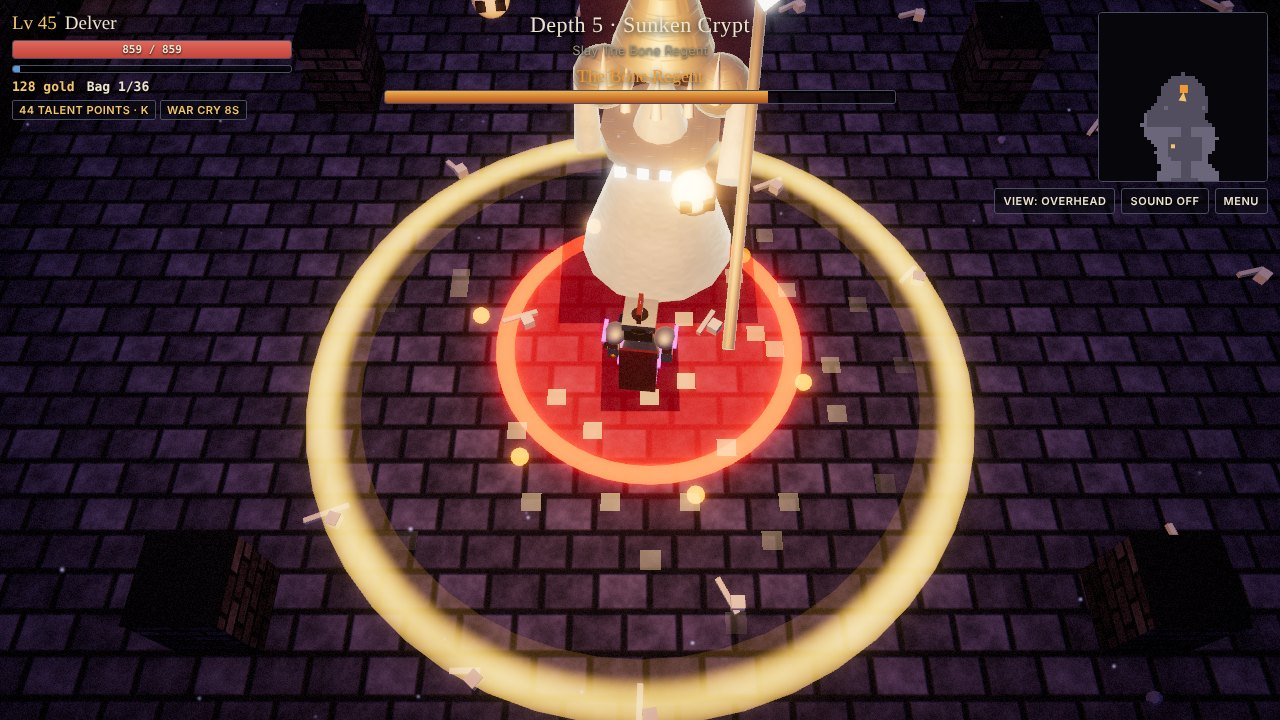
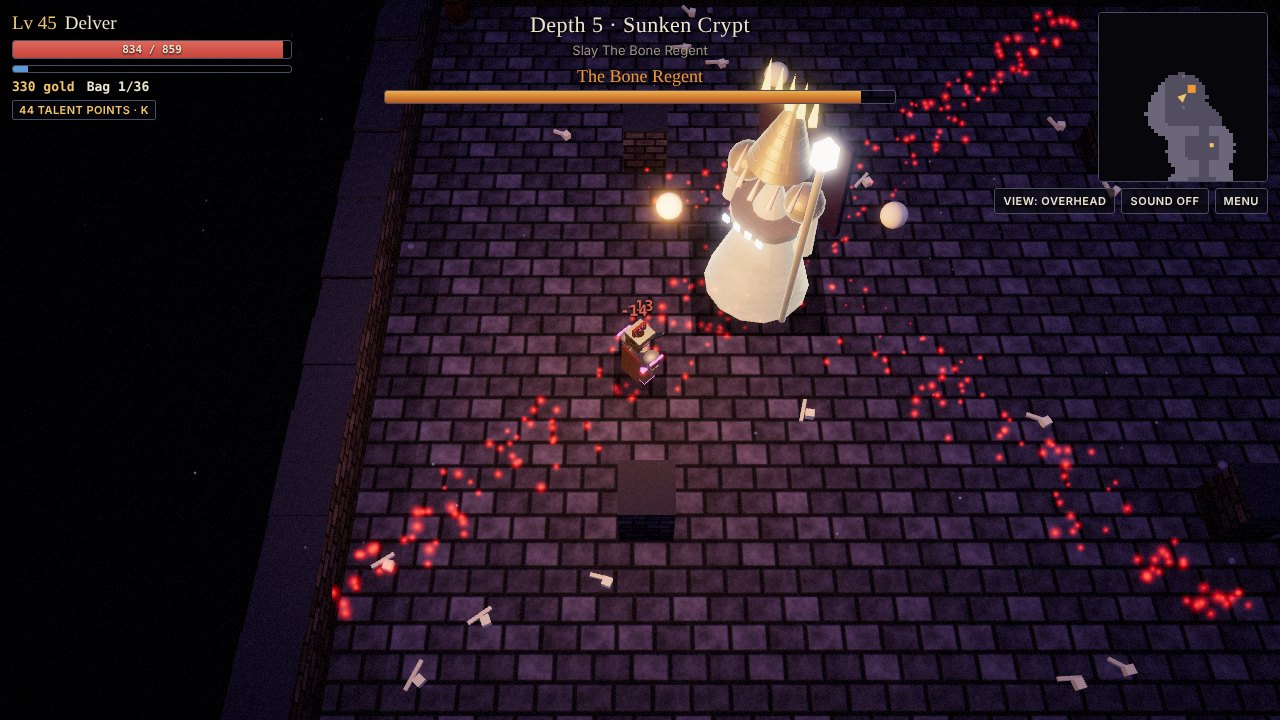
Readable dungeons from above, and a challenge link the moment a rift is sealed
Look
- Wall tops take 30% of the biome's stone colour instead of near-black,
  so rooms and corridors read as shapes against the unlit void.
- Overhead view: lantern a little stronger and wider, ambient up.

Sharing
- Every rift now has a seed and a code of its own, so any run can be
  shared afterwards (coded rifts still do not unlock tiers).
- Sealing a rift offers "Copy challenge link" with your time; the Delve
  keeps "Your last rift" with the same button. On phones the link goes
  through the share sheet.
- Side effect, and a fix: ordinary rifts had seed 0 and so always met the
  first Rift Guardian; they now draw from all five.

Tests and press
- Smoke test seals a rift and checks the offer and the saved code.
- Dungeon screenshots retaken at the default zoom with the new look.

Claude-Session: https://claude.ai/code/session_01WcBCuPCvAaaUKvDdgTgcLD

diff --git a/dist/hearthdeep.html b/dist/hearthdeep.html
@@ -75,6 +75,7 @@ button:focus-visible{outline:2px solid var(--brass-2);outline-offset:2px}
 #toasts{position:absolute;right:calc(12px + env(safe-area-inset-right,0px));top:calc(222px + env(safe-area-inset-top,0px));display:grid;gap:4px;justify-items:end;width:min(320px,60vw)}
 .toast{padding:5px 10px;background:var(--shade);border-left:3px solid var(--brass);font-size:14px;animation:tin .25s ease-out;max-width:100%}
 .toast.big{font-family:var(--f-display);font-size:18px}
+.toast.dare{display:grid;gap:6px;justify-items:end;pointer-events:auto;padding:8px 10px}
 @keyframes tin{from{transform:translateX(16px);opacity:0}to{transform:none;opacity:1}}
 #banner{position:absolute;top:28%;left:50%;transform:translateX(-50%);text-align:center;font-family:var(--f-display);font-size:clamp(28px,6vw,52px);color:var(--brass-2);text-shadow:0 3px 14px #000;opacity:0;transition:opacity .4s;width:90%;text-wrap:balance}
 #banner small{display:block;font-family:var(--f-body);font-size:15px;color:var(--fg);letter-spacing:.12em;text-transform:uppercase;margin-top:6px}
@@ -2311,6 +2312,7 @@ function buildDungeonVisuals() {
   makeEnv(tint(B.amb, 0.6), tint(B.fog, 2.5), 0x050508, B.torch);
   scene.environmentIntensity = 0.5;
 }
+const _capTint = new THREE.Color();
 function wallHeight() { return SET.cam === 'top' ? 1.35 : 3.4; }
 function layoutWalls() {
   const L = LV; if (!L || L.type !== 'dungeon') return;
@@ -2322,6 +2324,8 @@ function layoutWalls() {
     walls.push({ x: t.i + 0.5, y: h / 2, z: t.j + 0.5, sx: 1, sy: h, sz: 1, c: grey(t.v) });
     caps.push({ x: t.i + 0.5, y: h + 0.02, z: t.j + 0.5, sx: 1.02, sy: 0.04, sz: 1.02 });
   }
+  // wall tops take a little of the biome's stone colour, so the mass of the walls reads apart from the unlit void beyond
+  W.cap.color.setHex(0x15151c).lerp(_capTint.setHex(B.wall), 0.3);
   const objs = [];
   objs.push(instanced(G.box, W.wall, walls, { keep: true, cast: true }));
   objs.push(instanced(G.box, W.cap, caps, { keep: true, receive: false }));
@@ -4534,9 +4538,9 @@ function updCamera(dt) {
 function lightForView() {
   if (!LV || LV.type !== 'dungeon') return;
   const top = SET.cam === 'top';
-  torch.intensity = top ? 85 : 30; torch.distance = top ? 32 : 22;
+  torch.intensity = top ? 96 : 30; torch.distance = top ? 34 : 22;
   if (riftMod('dark')) { torch.distance *= 0.55; torch.intensity *= 0.75; }
-  hemi.intensity = top ? 3.0 : 2.4;
+  hemi.intensity = top ? 3.7 : 2.4;
   // overhead, the lantern is high and its shadows barely show, while its six-sided shadow pass is the costliest
   // thing in the frame; contact shadows carry the overhead look instead. Toggling it rebuilds shaders, so warm them.
   const cast = Q.torchShadow && !top;
@@ -4780,6 +4784,7 @@ function normalizeSave(s) {
   if (typeof s.shards !== 'number') s.shards = 0;
   if (!s.story || typeof s.story !== 'object' || !Array.isArray(s.story.pages)) s.story = null;
   if (!s.seedBest || typeof s.seedBest !== 'object') s.seedBest = {};
+  if (s.lastRift && (typeof s.lastRift !== 'object' || typeof s.lastRift.code !== 'string' || !isFinite(s.lastRift.secs))) delete s.lastRift;
   if (!s.rift || typeof s.rift !== 'object') s.rift = { max: 1, best: {} };
   // repair anything a bad write or an old version could have left behind
   for (const k of ['gold', 'xp', 'kills', 'deaths', 'runs', 'best', 'bossKills', 'potions', 'gpotions', 'scrolls', 'shards', 'time']) if (!Number.isFinite(s[k]) || s[k] < 0) s[k] = d[k] || 0;
@@ -5872,8 +5877,8 @@ function startRift(t, weekly, coded) {
   let mods, seed = 0;
   if (coded) { t = coded.tier; mods = coded.mods; seed = coded.seed; }
   else if (weekly) { const W = weeklyDef(); t = W.tier; mods = W.mods; seed = W.seed; }
-  else { const n = t >= 10 ? 3 : t >= 4 ? 2 : 1, keys = Object.keys(RIFT_MODS); mods = []; while (mods.length < n) { const m = pick(keys); if (!mods.includes(m)) mods.push(m); } }
-  startDelve(riftDepth(t), [], { mode: 'rift', rift: { tier: t, mods, floor: 1, t0: performance.now(), par: riftPar(t), weekly: !!weekly, seed, code: coded ? coded.code : null } });
+  else { const n = t >= 10 ? 3 : t >= 4 ? 2 : 1, keys = Object.keys(RIFT_MODS); mods = []; while (mods.length < n) { const m = pick(keys); if (!mods.includes(m)) mods.push(m); } seed = (Math.floor(Math.random() * 0xfffffffe) + 1) >>> 0; } // a seed of its own, so any rift can be shared afterwards
+  startDelve(riftDepth(t), [], { mode: 'rift', rift: { tier: t, mods, floor: 1, t0: performance.now(), par: riftPar(t), weekly: !!weekly, seed, code: coded ? coded.code : null, share: coded ? coded.code : riftCode(t, mods, seed) } });
   hint('rift'); ghostRecStart(); if (weekly) autoGhost();
   banner(weekly ? 'Weekly Rift' : coded ? 'Seeded rift' : `Rift tier ${t}`, mods.map((m) => RIFT_MODS[m].n).join(' · '));
 }
@@ -5909,6 +5914,7 @@ function riftComplete(e) {
   if (!S.rift.best[t] || secs < S.rift.best[t]) S.rift.best[t] = secs;
   if (R.code) { S.seedBest = S.seedBest || {}; if (!S.seedBest[R.code] || secs < S.seedBest[R.code]) S.seedBest[R.code] = secs; }
   if (R.weekly) { const k = weeklyDef().key; if (!S.weekly || S.weekly.key !== k) S.weekly = { key: k, best: null, tries: 0 }; if (!S.weekly.best || secs < S.weekly.best) S.weekly.best = secs; submitBoard({ time: secs, ghost: ghostString(R) }); }
+  if (R.share) { S.lastRift = { code: R.share, secs, tier: t }; dareToast(R.share, secs); }
   partyDone(secs);
   stat('rifts');
   gainXP(80 * t + 40);
@@ -6041,6 +6047,8 @@ function riftHtml() {
       <button class="btn" type="button" data-act="weekly">Enter</button></div>
     <div class="row"><div><div class="t">Daily seed<small>today's floors, the same for anyone with the code</small></div>${(() => { const c = dailyCode(), p = parseRiftCode(c), b = S.seedBest && S.seedBest[c]; return `<div class="d"><code>${c}</code> · tier ${p.tier} · ${p.mods.map((m) => RIFT_MODS[m].n).join(', ')}${b ? ` · <span style="color:var(--ok)">your best ${fmtClock(b)}</span>` : ''}</div><div class="acts"><button class="btn ghost sm" type="button" data-act="copyCode" data-code="${c}">${canLink() ? 'Copy challenge link' : 'Copy code'}</button></div>`; })()}</div>
       <button class="btn" type="button" data-act="daily">Enter</button></div>
+${S.lastRift && parseRiftCode(S.lastRift.code) ? `<div class="row"><div><div class="t">Your last rift<small>dare a friend to beat your time on the same floors</small></div><div class="d"><code>${esc(S.lastRift.code)}</code> · tier ${S.lastRift.tier} · sealed in ${fmtClock(S.lastRift.secs)}</div></div>
+      <button class="btn ghost" type="button" data-act="copyCode" data-code="${esc(S.lastRift.code)}" data-secs="${Math.round(S.lastRift.secs)}">${canLink() ? 'Copy challenge link' : 'Copy code'}</button></div>` : ''}
     <div class="row"><div><div class="t">Play a code<small>a friend's rift, floor for floor</small></div><input id="seedIn" class="code-in" type="text" placeholder="HD-4-SB-1A2B3C" value="${pendingRift ? pendingRift.code : ''}" autocomplete="off" spellcheck="false"><div class="hint" id="seedMsg"></div></div>
       <button class="btn ghost" type="button" data-act="seedGo">Play</button></div>
     </div>`;
@@ -6632,7 +6640,7 @@ function doAct(d) {
     case 'pit': startArena(); return;
     case 'daily': { const c = parseRiftCode(dailyCode()); if (c) startRift(0, false, c); return; }
     case 'seedGo': { const inp = $('#seedIn'), c = findRiftCode(inp && inp.value); if (!c) { const m = $('#seedMsg'); if (m) m.textContent = 'That is not a rift code. Codes look like HD-4-SB-1A2B3C.'; return; } pendingRift = null; startRift(0, false, c); return; }
-    case 'copyCode': { const link = canLink(), t = link ? `Race me in Hearthdeep, same floors, same foes: ${riftLink(d.code)}` : d.code; try { navigator.clipboard.writeText(t).then(() => toast(link ? 'Challenge link copied. Send it to a friend.' : 'Code copied: ' + t, 'var(--ok)'), () => toast(t, 'var(--muted)', true)); } catch (err) { toast(t, 'var(--muted)', true); } return; }
+    case 'copyCode': { copyChallenge(d.code, +d.secs || 0); return; }
     case 'cvBuy': caravanBuy(+d.i); break;
     case 'cvLook': Panel.cvLook = +d.i; break;
     default: if (settingsAct(d) || onlineAct(d)) break; if (metaAct(d, it) === 'stop') return;
@@ -7143,6 +7151,21 @@ try { pendingRift = findRiftCode(new URLSearchParams(location.search).get('rift'
 function announcePendingRift() {
   if (!pendingRift) return;
   toast(`A friend's rift is waiting: ${pendingRift.code} (tier ${pendingRift.tier}). Walk to the Delve and choose Rift Trials to race it.`, 'var(--brass)', true);
+}
+function copyChallenge(code, secs) {
+  const link = canLink(), say = secs ? `I sealed this Hearthdeep rift in ${fmtClock(secs)}. Same floors, same foes. Beat it:` : 'Race me in Hearthdeep, same floors, same foes:';
+  const t = link ? `${say} ${riftLink(code)}` : code;
+  // on a phone the share sheet is the natural way to send a link; everywhere else it goes to the clipboard
+  if (link && navigator.share && window.matchMedia('(pointer: coarse)').matches) { navigator.share({ title: 'Hearthdeep', text: say, url: riftLink(code) }).catch(() => {}); return; }
+  try { navigator.clipboard.writeText(t).then(() => toast(link ? 'Challenge link copied. Send it to a friend.' : 'Code copied: ' + t, 'var(--ok)'), () => toast(t, 'var(--muted)', true)); } catch (err) { toast(t, 'var(--muted)', true); }
+}
+// the moment a rift is sealed is when a time is worth showing off: offer the link there, and keep it in the Delve for later
+function dareToast(code, secs) {
+  const box = $('#toasts'), el = document.createElement('div'); el.className = 'toast big dare';
+  const s = document.createElement('span'); s.textContent = `Sealed in ${fmtClock(secs)}. Dare a friend to beat it.`;
+  const b = document.createElement('button'); b.type = 'button'; b.className = 'btn sm'; b.textContent = canLink() ? (navigator.share && window.matchMedia('(pointer: coarse)').matches ? 'Send challenge' : 'Copy challenge link') : 'Copy code';
+  b.addEventListener('click', () => { copyChallenge(code, secs); el.remove(); });
+  el.append(s, b); box.prepend(el); setTimeout(() => el.remove(), 14000);
 }
 function dailyCode() {
   const d = new Date(), key = `${d.getUTCFullYear()}-${d.getUTCMonth() + 1}-${d.getUTCDate()}`;
@@ -7877,7 +7900,7 @@ function boot(data) {
 }
 if (window.claude && window.claude.hot && window.claude.hot.snapshot) window.claude.hot.snapshot(() => ({ S, started }));
 if (window.claude && window.claude.hot && window.claude.hot.ready) window.claude.hot.ready(boot); else boot((window.claude && window.claude.hot && window.claude.hot.data) || {});
-return { get S() { return S; }, get RUN() { return RUN; }, get P() { return P; }, get LV() { return LV; }, enemies, renderer, startDelve, begin, freshHero, openPanel, closePanel, loadDungeon, get ready() { return levelReady; }, perf, debug: { parseRiftCode, setTouchMode, returnToTown, afterGear, DBG, stick, interacts, interact, usePotion, get skillCd() { return skillCd; }, isPaused, snapCamera, nextFloor, loadTown, rollCaravan, startRift, startArena, die, gainXP, hurtPlayer, calcStats, xpNeed, ARCH, BIOMES, genItem, makeSetItem, scene, sun, hemi, sky, walkable, spawnEnemy, bossPattern, get LVL() { return LV; }, applyTimeOfDay, get pet() { return pet; }, villagers, zones, chooseClass, checkAch, playerAttack, CAM, setCamMode, useSkill, cycleLock, get lockT() { return lockT; }, corpses, skillCd, questEvent, makeQuestOffers, claimQuest, get trail() { return trail; }, spawnDrop, bossIntro, LEGENDS, applyLoadout, ascend, gainParagon, GUARDIANS, season, minions, remains, initOnline, ONLINE, submitBoard, get drops() { return drops; } } };
+return { get S() { return S; }, get RUN() { return RUN; }, get P() { return P; }, get LV() { return LV; }, enemies, renderer, startDelve, begin, freshHero, openPanel, closePanel, loadDungeon, get ready() { return levelReady; }, perf, debug: { damageEnemy, parseRiftCode, setTouchMode, returnToTown, afterGear, DBG, stick, interacts, interact, usePotion, get skillCd() { return skillCd; }, isPaused, snapCamera, nextFloor, loadTown, rollCaravan, startRift, startArena, die, gainXP, hurtPlayer, calcStats, xpNeed, ARCH, BIOMES, genItem, makeSetItem, scene, sun, hemi, sky, walkable, spawnEnemy, bossPattern, get LVL() { return LV; }, applyTimeOfDay, get pet() { return pet; }, villagers, zones, chooseClass, checkAch, playerAttack, CAM, setCamMode, useSkill, cycleLock, get lockT() { return lockT; }, corpses, skillCd, questEvent, makeQuestOffers, claimQuest, get trail() { return trail; }, spawnDrop, bossIntro, LEGENDS, applyLoadout, ascend, gainParagon, GUARDIANS, season, minions, remains, initOnline, ONLINE, submitBoard, get drops() { return drops; } } };
 };
 </script>
 <script type="module">

diff --git a/game.js b/game.js
@@ -1752,6 +1752,7 @@ function buildDungeonVisuals() {
   makeEnv(tint(B.amb, 0.6), tint(B.fog, 2.5), 0x050508, B.torch);
   scene.environmentIntensity = 0.5;
 }
+const _capTint = new THREE.Color();
 function wallHeight() { return SET.cam === 'top' ? 1.35 : 3.4; }
 function layoutWalls() {
   const L = LV; if (!L || L.type !== 'dungeon') return;
@@ -1763,6 +1764,8 @@ function layoutWalls() {
     walls.push({ x: t.i + 0.5, y: h / 2, z: t.j + 0.5, sx: 1, sy: h, sz: 1, c: grey(t.v) });
     caps.push({ x: t.i + 0.5, y: h + 0.02, z: t.j + 0.5, sx: 1.02, sy: 0.04, sz: 1.02 });
   }
+  // wall tops take a little of the biome's stone colour, so the mass of the walls reads apart from the unlit void beyond
+  W.cap.color.setHex(0x15151c).lerp(_capTint.setHex(B.wall), 0.3);
   const objs = [];
   objs.push(instanced(G.box, W.wall, walls, { keep: true, cast: true }));
   objs.push(instanced(G.box, W.cap, caps, { keep: true, receive: false }));
@@ -3975,9 +3978,9 @@ function updCamera(dt) {
 function lightForView() {
   if (!LV || LV.type !== 'dungeon') return;
   const top = SET.cam === 'top';
-  torch.intensity = top ? 85 : 30; torch.distance = top ? 32 : 22;
+  torch.intensity = top ? 96 : 30; torch.distance = top ? 34 : 22;
   if (riftMod('dark')) { torch.distance *= 0.55; torch.intensity *= 0.75; }
-  hemi.intensity = top ? 3.0 : 2.4;
+  hemi.intensity = top ? 3.7 : 2.4;
   // overhead, the lantern is high and its shadows barely show, while its six-sided shadow pass is the costliest
   // thing in the frame; contact shadows carry the overhead look instead. Toggling it rebuilds shaders, so warm them.
   const cast = Q.torchShadow && !top;
@@ -4221,6 +4224,7 @@ function normalizeSave(s) {
   if (typeof s.shards !== 'number') s.shards = 0;
   if (!s.story || typeof s.story !== 'object' || !Array.isArray(s.story.pages)) s.story = null;
   if (!s.seedBest || typeof s.seedBest !== 'object') s.seedBest = {};
+  if (s.lastRift && (typeof s.lastRift !== 'object' || typeof s.lastRift.code !== 'string' || !isFinite(s.lastRift.secs))) delete s.lastRift;
   if (!s.rift || typeof s.rift !== 'object') s.rift = { max: 1, best: {} };
   // repair anything a bad write or an old version could have left behind
   for (const k of ['gold', 'xp', 'kills', 'deaths', 'runs', 'best', 'bossKills', 'potions', 'gpotions', 'scrolls', 'shards', 'time']) if (!Number.isFinite(s[k]) || s[k] < 0) s[k] = d[k] || 0;
@@ -5313,8 +5317,8 @@ function startRift(t, weekly, coded) {
   let mods, seed = 0;
   if (coded) { t = coded.tier; mods = coded.mods; seed = coded.seed; }
   else if (weekly) { const W = weeklyDef(); t = W.tier; mods = W.mods; seed = W.seed; }
-  else { const n = t >= 10 ? 3 : t >= 4 ? 2 : 1, keys = Object.keys(RIFT_MODS); mods = []; while (mods.length < n) { const m = pick(keys); if (!mods.includes(m)) mods.push(m); } }
-  startDelve(riftDepth(t), [], { mode: 'rift', rift: { tier: t, mods, floor: 1, t0: performance.now(), par: riftPar(t), weekly: !!weekly, seed, code: coded ? coded.code : null } });
+  else { const n = t >= 10 ? 3 : t >= 4 ? 2 : 1, keys = Object.keys(RIFT_MODS); mods = []; while (mods.length < n) { const m = pick(keys); if (!mods.includes(m)) mods.push(m); } seed = (Math.floor(Math.random() * 0xfffffffe) + 1) >>> 0; } // a seed of its own, so any rift can be shared afterwards
+  startDelve(riftDepth(t), [], { mode: 'rift', rift: { tier: t, mods, floor: 1, t0: performance.now(), par: riftPar(t), weekly: !!weekly, seed, code: coded ? coded.code : null, share: coded ? coded.code : riftCode(t, mods, seed) } });
   hint('rift'); ghostRecStart(); if (weekly) autoGhost();
   banner(weekly ? 'Weekly Rift' : coded ? 'Seeded rift' : `Rift tier ${t}`, mods.map((m) => RIFT_MODS[m].n).join(' · '));
 }
@@ -5350,6 +5354,7 @@ function riftComplete(e) {
   if (!S.rift.best[t] || secs < S.rift.best[t]) S.rift.best[t] = secs;
   if (R.code) { S.seedBest = S.seedBest || {}; if (!S.seedBest[R.code] || secs < S.seedBest[R.code]) S.seedBest[R.code] = secs; }
   if (R.weekly) { const k = weeklyDef().key; if (!S.weekly || S.weekly.key !== k) S.weekly = { key: k, best: null, tries: 0 }; if (!S.weekly.best || secs < S.weekly.best) S.weekly.best = secs; submitBoard({ time: secs, ghost: ghostString(R) }); }
+  if (R.share) { S.lastRift = { code: R.share, secs, tier: t }; dareToast(R.share, secs); }
   partyDone(secs);
   stat('rifts');
   gainXP(80 * t + 40);
@@ -5482,6 +5487,8 @@ function riftHtml() {
       <button class="btn" type="button" data-act="weekly">Enter</button></div>
     <div class="row"><div><div class="t">Daily seed<small>today's floors, the same for anyone with the code</small></div>${(() => { const c = dailyCode(), p = parseRiftCode(c), b = S.seedBest && S.seedBest[c]; return `<div class="d"><code>${c}</code> · tier ${p.tier} · ${p.mods.map((m) => RIFT_MODS[m].n).join(', ')}${b ? ` · <span style="color:var(--ok)">your best ${fmtClock(b)}</span>` : ''}</div><div class="acts"><button class="btn ghost sm" type="button" data-act="copyCode" data-code="${c}">${canLink() ? 'Copy challenge link' : 'Copy code'}</button></div>`; })()}</div>
       <button class="btn" type="button" data-act="daily">Enter</button></div>
+${S.lastRift && parseRiftCode(S.lastRift.code) ? `<div class="row"><div><div class="t">Your last rift<small>dare a friend to beat your time on the same floors</small></div><div class="d"><code>${esc(S.lastRift.code)}</code> · tier ${S.lastRift.tier} · sealed in ${fmtClock(S.lastRift.secs)}</div></div>
+      <button class="btn ghost" type="button" data-act="copyCode" data-code="${esc(S.lastRift.code)}" data-secs="${Math.round(S.lastRift.secs)}">${canLink() ? 'Copy challenge link' : 'Copy code'}</button></div>` : ''}
     <div class="row"><div><div class="t">Play a code<small>a friend's rift, floor for floor</small></div><input id="seedIn" class="code-in" type="text" placeholder="HD-4-SB-1A2B3C" value="${pendingRift ? pendingRift.code : ''}" autocomplete="off" spellcheck="false"><div class="hint" id="seedMsg"></div></div>
       <button class="btn ghost" type="button" data-act="seedGo">Play</button></div>
     </div>`;
@@ -6073,7 +6080,7 @@ function doAct(d) {
     case 'pit': startArena(); return;
     case 'daily': { const c = parseRiftCode(dailyCode()); if (c) startRift(0, false, c); return; }
     case 'seedGo': { const inp = $('#seedIn'), c = findRiftCode(inp && inp.value); if (!c) { const m = $('#seedMsg'); if (m) m.textContent = 'That is not a rift code. Codes look like HD-4-SB-1A2B3C.'; return; } pendingRift = null; startRift(0, false, c); return; }
-    case 'copyCode': { const link = canLink(), t = link ? `Race me in Hearthdeep, same floors, same foes: ${riftLink(d.code)}` : d.code; try { navigator.clipboard.writeText(t).then(() => toast(link ? 'Challenge link copied. Send it to a friend.' : 'Code copied: ' + t, 'var(--ok)'), () => toast(t, 'var(--muted)', true)); } catch (err) { toast(t, 'var(--muted)', true); } return; }
+    case 'copyCode': { copyChallenge(d.code, +d.secs || 0); return; }
     case 'cvBuy': caravanBuy(+d.i); break;
     case 'cvLook': Panel.cvLook = +d.i; break;
     default: if (settingsAct(d) || onlineAct(d)) break; if (metaAct(d, it) === 'stop') return;
@@ -6584,6 +6591,21 @@ try { pendingRift = findRiftCode(new URLSearchParams(location.search).get('rift'
 function announcePendingRift() {
   if (!pendingRift) return;
   toast(`A friend's rift is waiting: ${pendingRift.code} (tier ${pendingRift.tier}). Walk to the Delve and choose Rift Trials to race it.`, 'var(--brass)', true);
+}
+function copyChallenge(code, secs) {
+  const link = canLink(), say = secs ? `I sealed this Hearthdeep rift in ${fmtClock(secs)}. Same floors, same foes. Beat it:` : 'Race me in Hearthdeep, same floors, same foes:';
+  const t = link ? `${say} ${riftLink(code)}` : code;
+  // on a phone the share sheet is the natural way to send a link; everywhere else it goes to the clipboard
+  if (link && navigator.share && window.matchMedia('(pointer: coarse)').matches) { navigator.share({ title: 'Hearthdeep', text: say, url: riftLink(code) }).catch(() => {}); return; }
+  try { navigator.clipboard.writeText(t).then(() => toast(link ? 'Challenge link copied. Send it to a friend.' : 'Code copied: ' + t, 'var(--ok)'), () => toast(t, 'var(--muted)', true)); } catch (err) { toast(t, 'var(--muted)', true); }
+}
+// the moment a rift is sealed is when a time is worth showing off: offer the link there, and keep it in the Delve for later
+function dareToast(code, secs) {
+  const box = $('#toasts'), el = document.createElement('div'); el.className = 'toast big dare';
+  const s = document.createElement('span'); s.textContent = `Sealed in ${fmtClock(secs)}. Dare a friend to beat it.`;
+  const b = document.createElement('button'); b.type = 'button'; b.className = 'btn sm'; b.textContent = canLink() ? (navigator.share && window.matchMedia('(pointer: coarse)').matches ? 'Send challenge' : 'Copy challenge link') : 'Copy code';
+  b.addEventListener('click', () => { copyChallenge(code, secs); el.remove(); });
+  el.append(s, b); box.prepend(el); setTimeout(() => el.remove(), 14000);
 }
 function dailyCode() {
   const d = new Date(), key = `${d.getUTCFullYear()}-${d.getUTCMonth() + 1}-${d.getUTCDate()}`;
@@ -7318,5 +7340,5 @@ function boot(data) {
 }
 if (window.claude && window.claude.hot && window.claude.hot.snapshot) window.claude.hot.snapshot(() => ({ S, started }));
 if (window.claude && window.claude.hot && window.claude.hot.ready) window.claude.hot.ready(boot); else boot((window.claude && window.claude.hot && window.claude.hot.data) || {});
-return { get S() { return S; }, get RUN() { return RUN; }, get P() { return P; }, get LV() { return LV; }, enemies, renderer, startDelve, begin, freshHero, openPanel, closePanel, loadDungeon, get ready() { return levelReady; }, perf, debug: { parseRiftCode, setTouchMode, returnToTown, afterGear, DBG, stick, interacts, interact, usePotion, get skillCd() { return skillCd; }, isPaused, snapCamera, nextFloor, loadTown, rollCaravan, startRift, startArena, die, gainXP, hurtPlayer, calcStats, xpNeed, ARCH, BIOMES, genItem, makeSetItem, scene, sun, hemi, sky, walkable, spawnEnemy, bossPattern, get LVL() { return LV; }, applyTimeOfDay, get pet() { return pet; }, villagers, zones, chooseClass, checkAch, playerAttack, CAM, setCamMode, useSkill, cycleLock, get lockT() { return lockT; }, corpses, skillCd, questEvent, makeQuestOffers, claimQuest, get trail() { return trail; }, spawnDrop, bossIntro, LEGENDS, applyLoadout, ascend, gainParagon, GUARDIANS, season, minions, remains, initOnline, ONLINE, submitBoard, get drops() { return drops; } } };
+return { get S() { return S; }, get RUN() { return RUN; }, get P() { return P; }, get LV() { return LV; }, enemies, renderer, startDelve, begin, freshHero, openPanel, closePanel, loadDungeon, get ready() { return levelReady; }, perf, debug: { damageEnemy, parseRiftCode, setTouchMode, returnToTown, afterGear, DBG, stick, interacts, interact, usePotion, get skillCd() { return skillCd; }, isPaused, snapCamera, nextFloor, loadTown, rollCaravan, startRift, startArena, die, gainXP, hurtPlayer, calcStats, xpNeed, ARCH, BIOMES, genItem, makeSetItem, scene, sun, hemi, sky, walkable, spawnEnemy, bossPattern, get LVL() { return LV; }, applyTimeOfDay, get pet() { return pet; }, villagers, zones, chooseClass, checkAch, playerAttack, CAM, setCamMode, useSkill, cycleLock, get lockT() { return lockT; }, corpses, skillCd, questEvent, makeQuestOffers, claimQuest, get trail() { return trail; }, spawnDrop, bossIntro, LEGENDS, applyLoadout, ascend, gainParagon, GUARDIANS, season, minions, remains, initOnline, ONLINE, submitBoard, get drops() { return drops; } } };
 };

diff --git a/src/5f-modes.js b/src/5f-modes.js
@@ -31,8 +31,8 @@ function startRift(t, weekly, coded) {
   let mods, seed = 0;
   if (coded) { t = coded.tier; mods = coded.mods; seed = coded.seed; }
   else if (weekly) { const W = weeklyDef(); t = W.tier; mods = W.mods; seed = W.seed; }
-  else { const n = t >= 10 ? 3 : t >= 4 ? 2 : 1, keys = Object.keys(RIFT_MODS); mods = []; while (mods.length < n) { const m = pick(keys); if (!mods.includes(m)) mods.push(m); } }
-  startDelve(riftDepth(t), [], { mode: 'rift', rift: { tier: t, mods, floor: 1, t0: performance.now(), par: riftPar(t), weekly: !!weekly, seed, code: coded ? coded.code : null } });
+  else { const n = t >= 10 ? 3 : t >= 4 ? 2 : 1, keys = Object.keys(RIFT_MODS); mods = []; while (mods.length < n) { const m = pick(keys); if (!mods.includes(m)) mods.push(m); } seed = (Math.floor(Math.random() * 0xfffffffe) + 1) >>> 0; } // a seed of its own, so any rift can be shared afterwards
+  startDelve(riftDepth(t), [], { mode: 'rift', rift: { tier: t, mods, floor: 1, t0: performance.now(), par: riftPar(t), weekly: !!weekly, seed, code: coded ? coded.code : null, share: coded ? coded.code : riftCode(t, mods, seed) } });
   hint('rift'); ghostRecStart(); if (weekly) autoGhost();
   banner(weekly ? 'Weekly Rift' : coded ? 'Seeded rift' : `Rift tier ${t}`, mods.map((m) => RIFT_MODS[m].n).join(' · '));
 }
@@ -68,6 +68,7 @@ function riftComplete(e) {
   if (!S.rift.best[t] || secs < S.rift.best[t]) S.rift.best[t] = secs;
   if (R.code) { S.seedBest = S.seedBest || {}; if (!S.seedBest[R.code] || secs < S.seedBest[R.code]) S.seedBest[R.code] = secs; }
   if (R.weekly) { const k = weeklyDef().key; if (!S.weekly || S.weekly.key !== k) S.weekly = { key: k, best: null, tries: 0 }; if (!S.weekly.best || secs < S.weekly.best) S.weekly.best = secs; submitBoard({ time: secs, ghost: ghostString(R) }); }
+  if (R.share) { S.lastRift = { code: R.share, secs, tier: t }; dareToast(R.share, secs); }
   partyDone(secs);
   stat('rifts');
   gainXP(80 * t + 40);
@@ -200,6 +201,8 @@ function riftHtml() {
       <button class="btn" type="button" data-act="weekly">Enter</button></div>
     <div class="row"><div><div class="t">Daily seed<small>today's floors, the same for anyone with the code</small></div>${(() => { const c = dailyCode(), p = parseRiftCode(c), b = S.seedBest && S.seedBest[c]; return `<div class="d"><code>${c}</code> · tier ${p.tier} · ${p.mods.map((m) => RIFT_MODS[m].n).join(', ')}${b ? ` · <span style="color:var(--ok)">your best ${fmtClock(b)}</span>` : ''}</div><div class="acts"><button class="btn ghost sm" type="button" data-act="copyCode" data-code="${c}">${canLink() ? 'Copy challenge link' : 'Copy code'}</button></div>`; })()}</div>
       <button class="btn" type="button" data-act="daily">Enter</button></div>
+${S.lastRift && parseRiftCode(S.lastRift.code) ? `<div class="row"><div><div class="t">Your last rift<small>dare a friend to beat your time on the same floors</small></div><div class="d"><code>${esc(S.lastRift.code)}</code> · tier ${S.lastRift.tier} · sealed in ${fmtClock(S.lastRift.secs)}</div></div>
+      <button class="btn ghost" type="button" data-act="copyCode" data-code="${esc(S.lastRift.code)}" data-secs="${Math.round(S.lastRift.secs)}">${canLink() ? 'Copy challenge link' : 'Copy code'}</button></div>` : ''}
     <div class="row"><div><div class="t">Play a code<small>a friend's rift, floor for floor</small></div><input id="seedIn" class="code-in" type="text" placeholder="HD-4-SB-1A2B3C" value="${pendingRift ? pendingRift.code : ''}" autocomplete="off" spellcheck="false"><div class="hint" id="seedMsg"></div></div>
       <button class="btn ghost" type="button" data-act="seedGo">Play</button></div>
     </div>`;

diff --git a/src/7-main.js b/src/7-main.js
@@ -302,4 +302,4 @@ function boot(data) {
 }
 if (window.claude && window.claude.hot && window.claude.hot.snapshot) window.claude.hot.snapshot(() => ({ S, started }));
 if (window.claude && window.claude.hot && window.claude.hot.ready) window.claude.hot.ready(boot); else boot((window.claude && window.claude.hot && window.claude.hot.data) || {});
-return { get S() { return S; }, get RUN() { return RUN; }, get P() { return P; }, get LV() { return LV; }, enemies, renderer, startDelve, begin, freshHero, openPanel, closePanel, loadDungeon, get ready() { return levelReady; }, perf, debug: { parseRiftCode, setTouchMode, returnToTown, afterGear, DBG, stick, interacts, interact, usePotion, get skillCd() { return skillCd; }, isPaused, snapCamera, nextFloor, loadTown, rollCaravan, startRift, startArena, die, gainXP, hurtPlayer, calcStats, xpNeed, ARCH, BIOMES, genItem, makeSetItem, scene, sun, hemi, sky, walkable, spawnEnemy, bossPattern, get LVL() { return LV; }, applyTimeOfDay, get pet() { return pet; }, villagers, zones, chooseClass, checkAch, playerAttack, CAM, setCamMode, useSkill, cycleLock, get lockT() { return lockT; }, corpses, skillCd, questEvent, makeQuestOffers, claimQuest, get trail() { return trail; }, spawnDrop, bossIntro, LEGENDS, applyLoadout, ascend, gainParagon, GUARDIANS, season, minions, remains, initOnline, ONLINE, submitBoard, get drops() { return drops; } } };
+return { get S() { return S; }, get RUN() { return RUN; }, get P() { return P; }, get LV() { return LV; }, enemies, renderer, startDelve, begin, freshHero, openPanel, closePanel, loadDungeon, get ready() { return levelReady; }, perf, debug: { damageEnemy, parseRiftCode, setTouchMode, returnToTown, afterGear, DBG, stick, interacts, interact, usePotion, get skillCd() { return skillCd; }, isPaused, snapCamera, nextFloor, loadTown, rollCaravan, startRift, startArena, die, gainXP, hurtPlayer, calcStats, xpNeed, ARCH, BIOMES, genItem, makeSetItem, scene, sun, hemi, sky, walkable, spawnEnemy, bossPattern, get LVL() { return LV; }, applyTimeOfDay, get pet() { return pet; }, villagers, zones, chooseClass, checkAch, playerAttack, CAM, setCamMode, useSkill, cycleLock, get lockT() { return lockT; }, corpses, skillCd, questEvent, makeQuestOffers, claimQuest, get trail() { return trail; }, spawnDrop, bossIntro, LEGENDS, applyLoadout, ascend, gainParagon, GUARDIANS, season, minions, remains, initOnline, ONLINE, submitBoard, get drops() { return drops; } } };

diff --git a/src/6d-share.js b/src/6d-share.js
@@ -166,6 +166,21 @@ function announcePendingRift() {
   if (!pendingRift) return;
   toast(`A friend's rift is waiting: ${pendingRift.code} (tier ${pendingRift.tier}). Walk to the Delve and choose Rift Trials to race it.`, 'var(--brass)', true);
 }
+function copyChallenge(code, secs) {
+  const link = canLink(), say = secs ? `I sealed this Hearthdeep rift in ${fmtClock(secs)}. Same floors, same foes. Beat it:` : 'Race me in Hearthdeep, same floors, same foes:';
+  const t = link ? `${say} ${riftLink(code)}` : code;
+  // on a phone the share sheet is the natural way to send a link; everywhere else it goes to the clipboard
+  if (link && navigator.share && window.matchMedia('(pointer: coarse)').matches) { navigator.share({ title: 'Hearthdeep', text: say, url: riftLink(code) }).catch(() => {}); return; }
+  try { navigator.clipboard.writeText(t).then(() => toast(link ? 'Challenge link copied. Send it to a friend.' : 'Code copied: ' + t, 'var(--ok)'), () => toast(t, 'var(--muted)', true)); } catch (err) { toast(t, 'var(--muted)', true); }
+}
+// the moment a rift is sealed is when a time is worth showing off: offer the link there, and keep it in the Delve for later
+function dareToast(code, secs) {
+  const box = $('#toasts'), el = document.createElement('div'); el.className = 'toast big dare';
+  const s = document.createElement('span'); s.textContent = `Sealed in ${fmtClock(secs)}. Dare a friend to beat it.`;
+  const b = document.createElement('button'); b.type = 'button'; b.className = 'btn sm'; b.textContent = canLink() ? (navigator.share && window.matchMedia('(pointer: coarse)').matches ? 'Send challenge' : 'Copy challenge link') : 'Copy code';
+  b.addEventListener('click', () => { copyChallenge(code, secs); el.remove(); });
+  el.append(s, b); box.prepend(el); setTimeout(() => el.remove(), 14000);
+}
 function dailyCode() {
   const d = new Date(), key = `${d.getUTCFullYear()}-${d.getUTCMonth() + 1}-${d.getUTCDate()}`;
   let h = 2166136261; for (const c of key + 'daily') h = Math.imul(h ^ c.charCodeAt(0), 16777619);

diff --git a/src/5-game.js b/src/5-game.js
@@ -408,9 +408,9 @@ function updCamera(dt) {
 function lightForView() {
   if (!LV || LV.type !== 'dungeon') return;
   const top = SET.cam === 'top';
-  torch.intensity = top ? 85 : 30; torch.distance = top ? 32 : 22;
+  torch.intensity = top ? 96 : 30; torch.distance = top ? 34 : 22;
   if (riftMod('dark')) { torch.distance *= 0.55; torch.intensity *= 0.75; }
-  hemi.intensity = top ? 3.0 : 2.4;
+  hemi.intensity = top ? 3.7 : 2.4;
   // overhead, the lantern is high and its shadows barely show, while its six-sided shadow pass is the costliest
   // thing in the frame; contact shadows carry the overhead look instead. Toggling it rebuilds shaders, so warm them.
   const cast = Q.torchShadow && !top;
@@ -654,6 +654,7 @@ function normalizeSave(s) {
   if (typeof s.shards !== 'number') s.shards = 0;
   if (!s.story || typeof s.story !== 'object' || !Array.isArray(s.story.pages)) s.story = null;
   if (!s.seedBest || typeof s.seedBest !== 'object') s.seedBest = {};
+  if (s.lastRift && (typeof s.lastRift !== 'object' || typeof s.lastRift.code !== 'string' || !isFinite(s.lastRift.secs))) delete s.lastRift;
   if (!s.rift || typeof s.rift !== 'object') s.rift = { max: 1, best: {} };
   // repair anything a bad write or an old version could have left behind
   for (const k of ['gold', 'xp', 'kills', 'deaths', 'runs', 'best', 'bossKills', 'potions', 'gpotions', 'scrolls', 'shards', 'time']) if (!Number.isFinite(s[k]) || s[k] < 0) s[k] = d[k] || 0;

diff --git a/src/6-ui.js b/src/6-ui.js
@@ -445,7 +445,7 @@ function doAct(d) {
     case 'pit': startArena(); return;
     case 'daily': { const c = parseRiftCode(dailyCode()); if (c) startRift(0, false, c); return; }
     case 'seedGo': { const inp = $('#seedIn'), c = findRiftCode(inp && inp.value); if (!c) { const m = $('#seedMsg'); if (m) m.textContent = 'That is not a rift code. Codes look like HD-4-SB-1A2B3C.'; return; } pendingRift = null; startRift(0, false, c); return; }
-    case 'copyCode': { const link = canLink(), t = link ? `Race me in Hearthdeep, same floors, same foes: ${riftLink(d.code)}` : d.code; try { navigator.clipboard.writeText(t).then(() => toast(link ? 'Challenge link copied. Send it to a friend.' : 'Code copied: ' + t, 'var(--ok)'), () => toast(t, 'var(--muted)', true)); } catch (err) { toast(t, 'var(--muted)', true); } return; }
+    case 'copyCode': { copyChallenge(d.code, +d.secs || 0); return; }
     case 'cvBuy': caravanBuy(+d.i); break;
     case 'cvLook': Panel.cvLook = +d.i; break;
     default: if (settingsAct(d) || onlineAct(d)) break; if (metaAct(d, it) === 'stop') return;

diff --git a/index.html b/index.html
@@ -75,6 +75,7 @@ button:focus-visible{outline:2px solid var(--brass-2);outline-offset:2px}
 #toasts{position:absolute;right:calc(12px + env(safe-area-inset-right,0px));top:calc(222px + env(safe-area-inset-top,0px));display:grid;gap:4px;justify-items:end;width:min(320px,60vw)}
 .toast{padding:5px 10px;background:var(--shade);border-left:3px solid var(--brass);font-size:14px;animation:tin .25s ease-out;max-width:100%}
 .toast.big{font-family:var(--f-display);font-size:18px}
+.toast.dare{display:grid;gap:6px;justify-items:end;pointer-events:auto;padding:8px 10px}
 @keyframes tin{from{transform:translateX(16px);opacity:0}to{transform:none;opacity:1}}
 #banner{position:absolute;top:28%;left:50%;transform:translateX(-50%);text-align:center;font-family:var(--f-display);font-size:clamp(28px,6vw,52px);color:var(--brass-2);text-shadow:0 3px 14px #000;opacity:0;transition:opacity .4s;width:90%;text-wrap:balance}
 #banner small{display:block;font-family:var(--f-body);font-size:15px;color:var(--fg);letter-spacing:.12em;text-transform:uppercase;margin-top:6px}

diff --git a/src/head.html b/src/head.html
@@ -74,6 +74,7 @@ button:focus-visible{outline:2px solid var(--brass-2);outline-offset:2px}
 #toasts{position:absolute;right:calc(12px + env(safe-area-inset-right,0px));top:calc(222px + env(safe-area-inset-top,0px));display:grid;gap:4px;justify-items:end;width:min(320px,60vw)}
 .toast{padding:5px 10px;background:var(--shade);border-left:3px solid var(--brass);font-size:14px;animation:tin .25s ease-out;max-width:100%}
 .toast.big{font-family:var(--f-display);font-size:18px}
+.toast.dare{display:grid;gap:6px;justify-items:end;pointer-events:auto;padding:8px 10px}
 @keyframes tin{from{transform:translateX(16px);opacity:0}to{transform:none;opacity:1}}
 #banner{position:absolute;top:28%;left:50%;transform:translateX(-50%);text-align:center;font-family:var(--f-display);font-size:clamp(28px,6vw,52px);color:var(--brass-2);text-shadow:0 3px 14px #000;opacity:0;transition:opacity .4s;width:90%;text-wrap:balance}
 #banner small{display:block;font-family:var(--f-body);font-size:15px;color:var(--fg);letter-spacing:.12em;text-transform:uppercase;margin-top:6px}

diff --git a/src/3b-visuals.js b/src/3b-visuals.js
@@ -169,6 +169,7 @@ function buildDungeonVisuals() {
   makeEnv(tint(B.amb, 0.6), tint(B.fog, 2.5), 0x050508, B.torch);
   scene.environmentIntensity = 0.5;
 }
+const _capTint = new THREE.Color();
 function wallHeight() { return SET.cam === 'top' ? 1.35 : 3.4; }
 function layoutWalls() {
   const L = LV; if (!L || L.type !== 'dungeon') return;
@@ -180,6 +181,8 @@ function layoutWalls() {
     walls.push({ x: t.i + 0.5, y: h / 2, z: t.j + 0.5, sx: 1, sy: h, sz: 1, c: grey(t.v) });
     caps.push({ x: t.i + 0.5, y: h + 0.02, z: t.j + 0.5, sx: 1.02, sy: 0.04, sz: 1.02 });
   }
+  // wall tops take a little of the biome's stone colour, so the mass of the walls reads apart from the unlit void beyond
+  W.cap.color.setHex(0x15151c).lerp(_capTint.setHex(B.wall), 0.3);
   const objs = [];
   objs.push(instanced(G.box, W.wall, walls, { keep: true, cast: true }));
   objs.push(instanced(G.box, W.cap, caps, { keep: true, receive: false }));

diff --git a/sw.js b/sw.js
@@ -1,5 +1,5 @@
 // Offline cache for the hosted build (index.html). Version is stamped by build.sh.
-const V = 'hearthdeep-8e6932a5c3';
+const V = 'hearthdeep-2079d36c1a';
 const CORE = ['./', 'index.html', 'game.js', 'vendor/three.module.js', 'vendor/three.core.js', 'manifest.webmanifest', 'icons/icon-192.png', 'icons/icon-512.png', 'icons/icon.svg'];
 self.addEventListener('install', (e) => { e.waitUntil(caches.open(V).then((c) => c.addAll(CORE)).then(() => self.skipWaiting())); });
 self.addEventListener('activate', (e) => { e.waitUntil(caches.keys().then((ks) => Promise.all(ks.filter((k) => k !== V).map((k) => caches.delete(k)))).then(() => self.clients.claim())); });

diff --git a/README.md b/README.md
@@ -27,7 +27,7 @@ No download, no account. Keyboard and mouse, gamepad or touch. Installs to a pho
 - **Loot worth chasing.** Five rarities, sets, gems and sockets, sixteen legendary powers, Ancient and Primal gear, crafting, upgrades and imprinting.
 - **A home to build.** House, workbench, garden, kennel, trophy hall and a yard, in a village with a day and night cycle, weather and seasonal festivals.
 - **Three ways to look at it.** Overhead, third person and first person, switchable at any moment.
-- **Race your friends.** Every rift has a code. Copy a challenge link and anyone who opens it plays the same floors and the same foes; there is a daily seed and a weekly rift for everyone.
+- **Race your friends.** Every rift has a code. Seal one and the game offers a challenge link with your time on the spot; anyone who opens it plays the same floors and the same foes. There is a daily seed and a weekly rift for everyone.
 - **Built for everyone.** Colour-blind palettes, four interface sizes, reduce-motion, three difficulties, full key rebinding and screen-reader roles.
 
 It is about 7,300 lines of plain JavaScript on [three.js](https://threejs.org/) r186 with no other dependencies and no build tooling beyond a shell script. Every texture, model, sound effect and piece of music is generated in code; the repository holds no art or audio files beyond the app icons.
@@ -36,7 +36,7 @@ It is about 7,300 lines of plain JavaScript on [three.js](https://threejs.org/) 
 
 **In the browser:** <https://cptnope.github.io/JAT-Dungeon-Crawler/>
 
-**Challenge a friend:** at the Delve, open Rift Trials and press *Copy challenge link*. The link looks like `https://cptnope.github.io/JAT-Dungeon-Crawler/?rift=HD-4-SB-1A2B3C`; whoever opens it finds the same rift waiting for them. Pasting a whole message into *Play a code* works too.
+**Challenge a friend:** seal any rift and press *Copy challenge link* when it is offered (on a phone, *Send challenge* opens the share sheet), or find your last rift and the daily seed under Rift Trials at the Delve. The link looks like `https://cptnope.github.io/JAT-Dungeon-Crawler/?rift=HD-4-SB-1A2B3C`; whoever opens it finds the same rift waiting for them. Pasting a whole message into *Play a code* works too.
 
 **Host it yourself:** any static host works (GitHub Pages: Settings → Pages → deploy from `main`, root). Locally, ES modules need a server:
 
@@ -117,7 +117,7 @@ Every key below can be rebound in **Settings → Controls** (arrow keys, Shift a
 - **Story**: Elder Maren tells an eight-chapter tale as you slay each biome's keeper, sixteen pages of Aldric's journal lie in the deep, and the first time you reach depth 40 the last keeper is the Hollow King, with an ending. The deep goes on after it.
 - **Elements and combos**: weapons hit physical (staves arcane); Ember Nova and Meteor burn, Blink freezes, Rain of Arrows is lightning. Every biome resists some elements and fears others. Chill a chilled foe to freeze it; a critical or heavy hit shatters a frozen foe; fire on a chilled foe is a thermal shock; lightning on a burning foe overloads.
 - **Perfect rolls and parries**: roll through a blow at the last moment, or swing into an enemy's strike as it lands, for a guaranteed critical (and, for rolls, a moment of slow motion and shorter cooldowns).
-- **Sharing**: a run card image of your hero and records, a photo mode, and rift seed codes (a daily code everyone shares, or any code a friend sends). On a web host a code travels as a challenge link (`?rift=HD-4-SB-1A2B3C`) that leaves the rift waiting at the Delve for whoever opens it.
+- **Sharing**: a run card image of your hero and records, a photo mode, and rift seed codes (a daily code everyone shares, or any code a friend sends). On a web host a code travels as a challenge link (`?rift=HD-4-SB-1A2B3C`) that leaves the rift waiting at the Delve for whoever opens it. Every rift now has a seed of its own, so any run can be shared after the fact, and ordinary rifts draw their guardian from all five instead of always meeting the first.
 - **Rift Trials**: three-floor timed runs from the Delve with one to three modifiers (Swift, Brutal, Horde, Elite, Glass, Lightless, Volatile, Draining, Frenzied) and a Rift Guardian sealing the last floor. Beat par to unlock the next tier and double the rift shards.
 - **Weekly Rift**: the same seeded floors and modifiers for everyone each week, with your best time recorded.
 - **The Pit**: endless arena waves that grow deeper, with a pack leader every fifth wave and a Pit Champion every tenth; leave between waves to keep your winnings, and falling there costs no gold.
